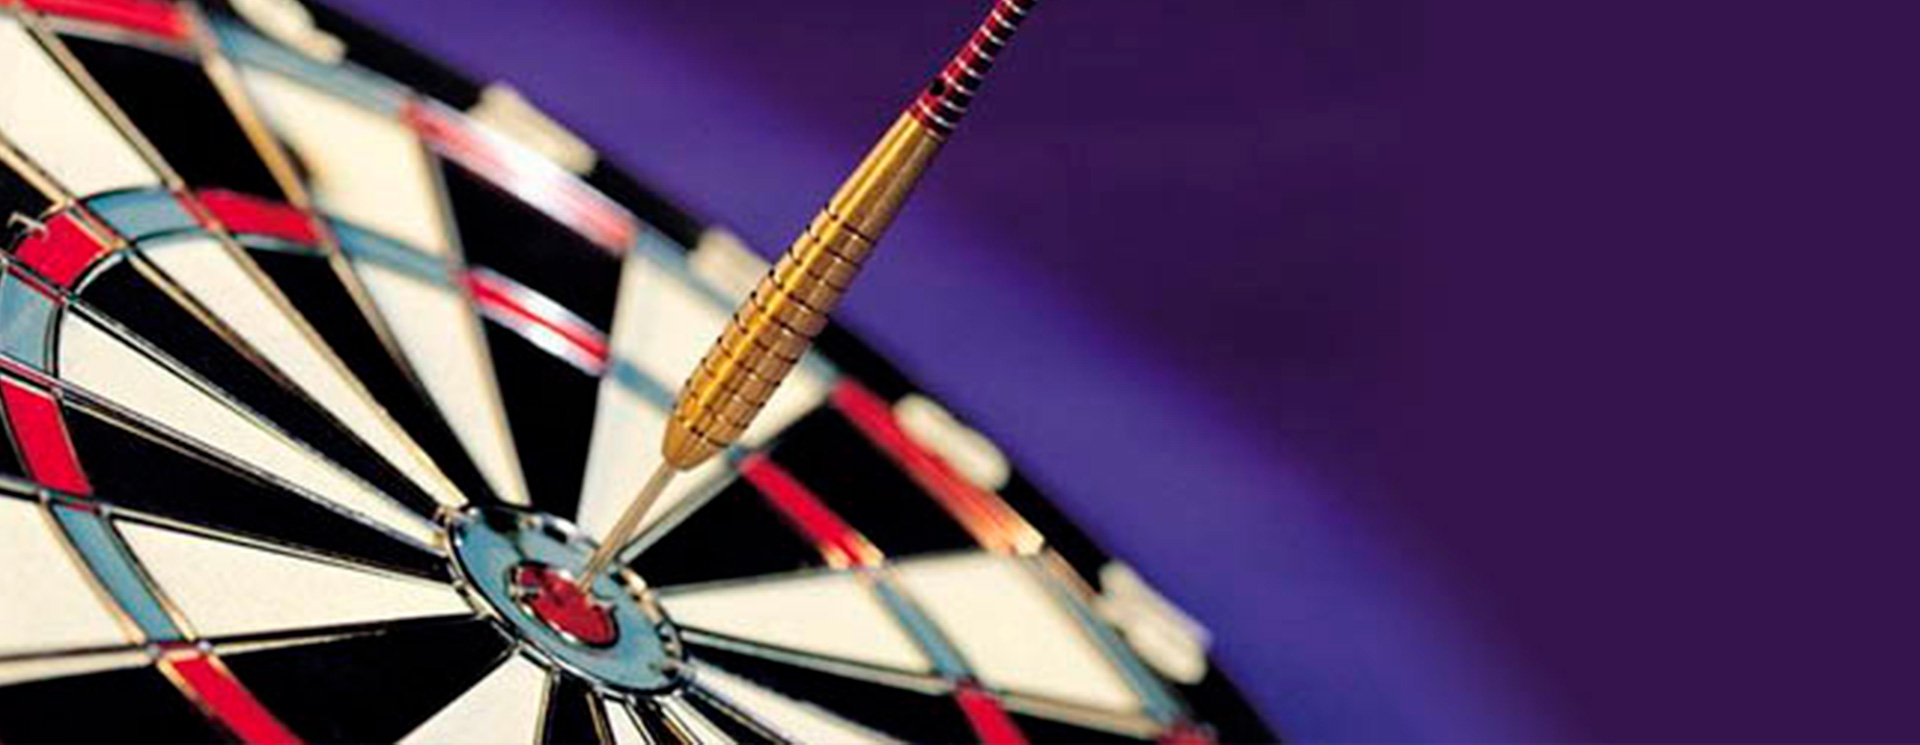
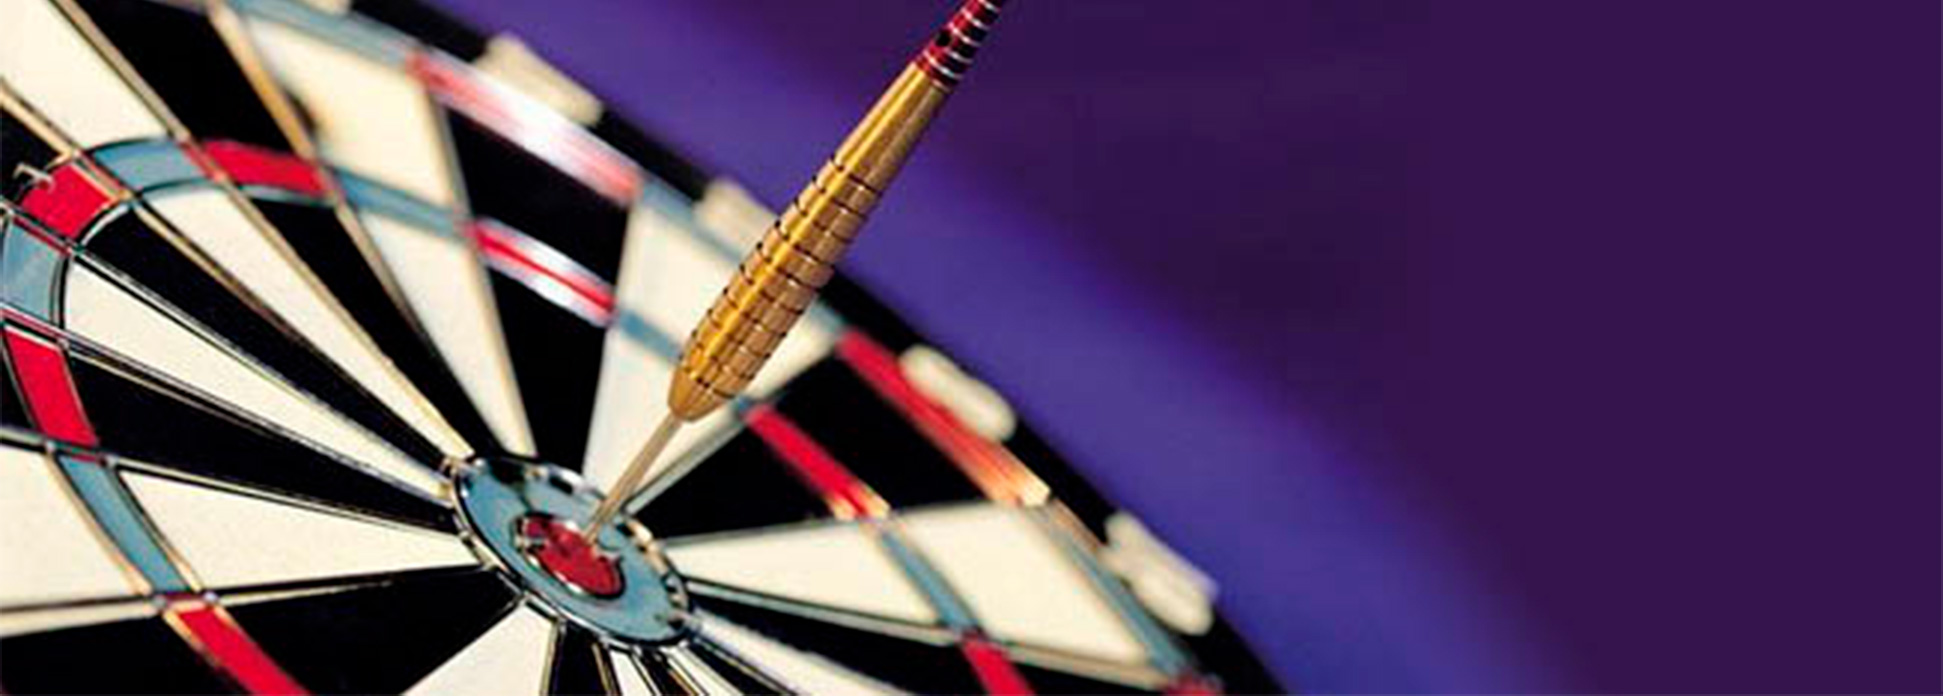
SEOMIND

diff --git a/style.css b/style.css
@@ -477,7 +477,8 @@ textarea:focus {
 }
 
 .promo-slider .slide {
-    height: 100vh;
+    /*height: 100vh;*/
+    height: 650px;
     overflow: hidden;
     position: relative;
 }
@@ -1155,7 +1156,7 @@ textarea:focus {
     display: inline-table;
     vertical-align: top;
     width: 25%;
-    margin: 2px 0;
+    /*margin: 2px 0;*/
     padding: 0 0 12px 0;
     text-align: center;
     background-color: rgb(255, 255, 255);

diff --git a/js/additional_scripts.js b/js/additional_scripts.js
@@ -18,7 +18,7 @@ $(document).ready(function() {
     $(".promo-slider").not(".slick-initialized").slick({
         dots: true,
         arrows: true,
-        // autoplay: true,
+        autoplay: true,
         autoplaySpeed: 10000,
         speed: 800,
         fade: true,

diff --git a/js/scripts.js b/js/scripts.js
@@ -16,13 +16,13 @@ $(window).load(function() {
 
     // });
 
-    getPromoSliderHeight();
+    // getPromoSliderHeight();
 
 });
 
 $(window).resize(function() {
 
-    getPromoSliderHeight();
+    // getPromoSliderHeight();
 
 });
 
